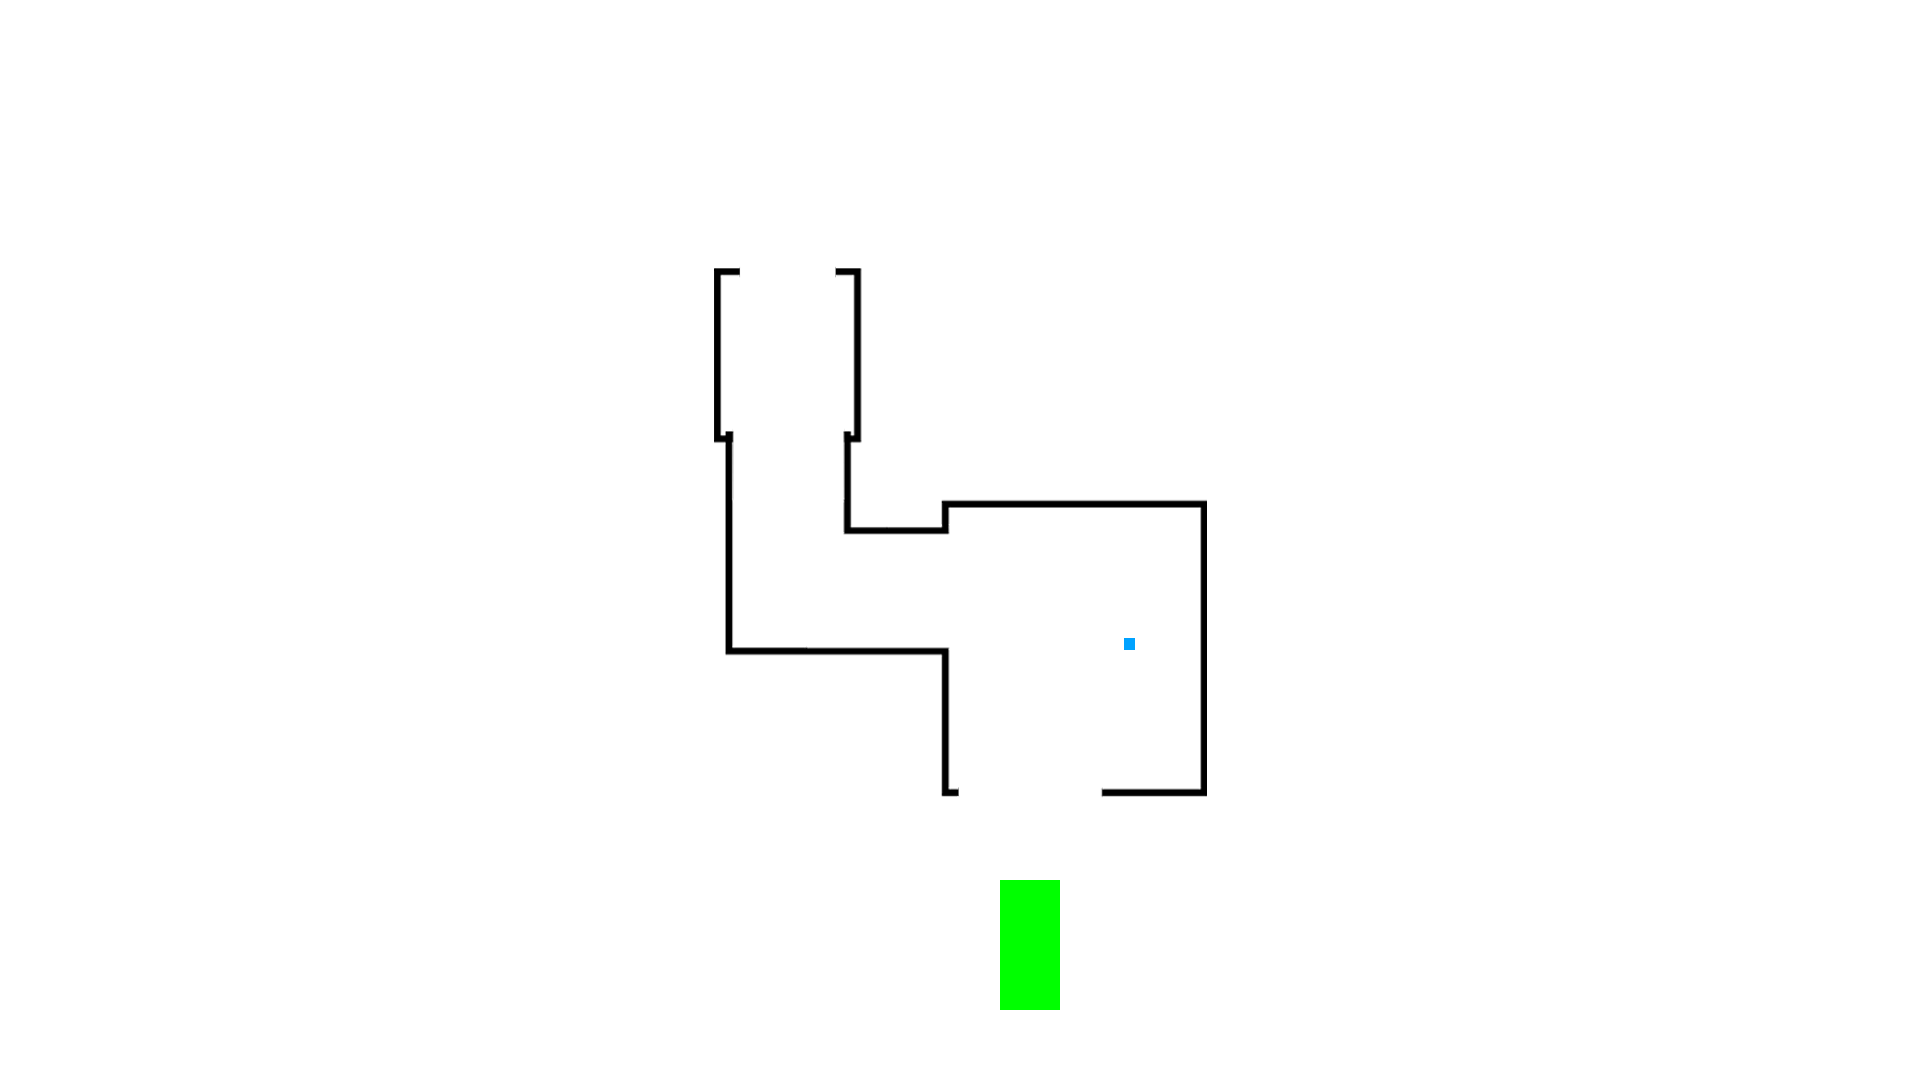
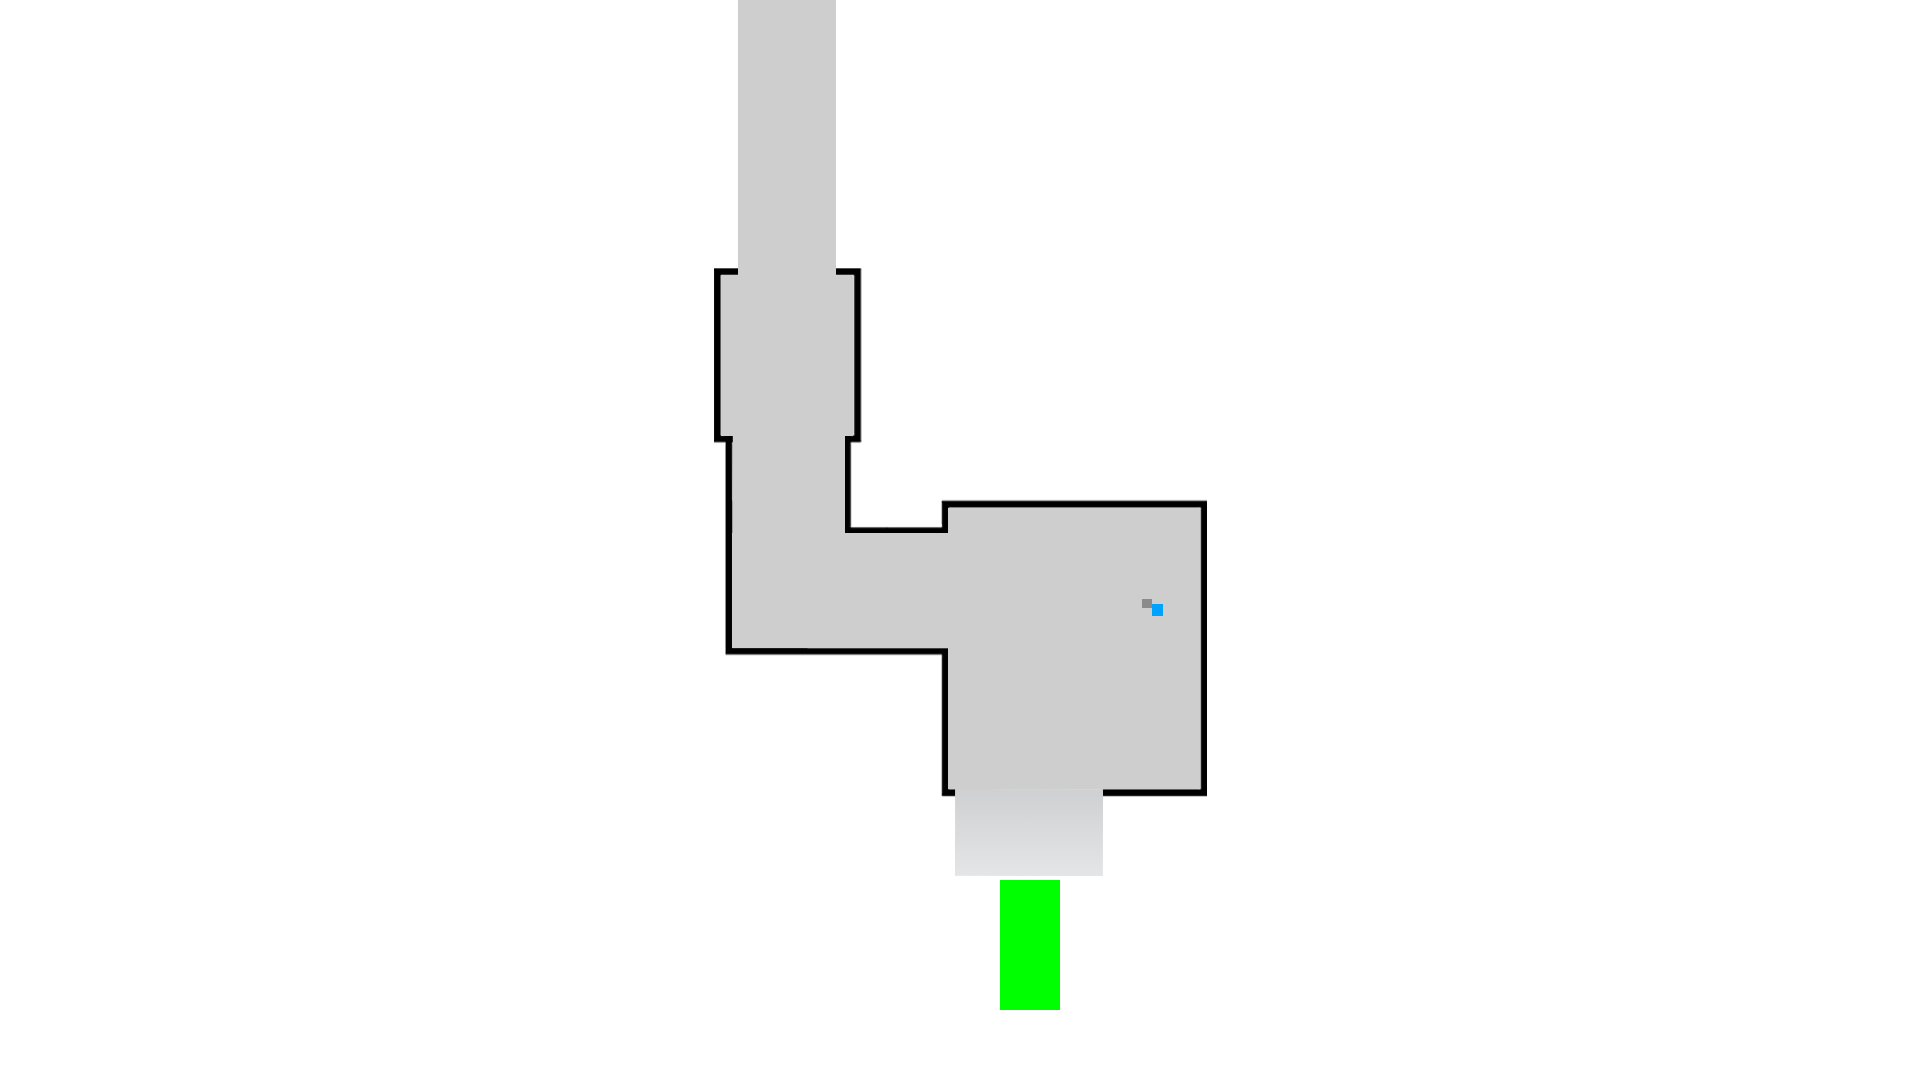
ca

Changed region(s): [[0.375, 0.0, 0.625, 0.825]]

diff --git a/Python_Sim_Pygame/World/Trafo.py b/Python_Sim_Pygame/World/Trafo.py
@@ -1,5 +1,6 @@
 import pygame
 import math
+import os
 
 
 class Trafo:
@@ -7,7 +8,7 @@ class Trafo:
     inside the player's hitbox. Stores a carrier reference when picked.
     Coordinates are in world units (same as player)."""
 
-    def __init__(self, x, y, size=60, color=(150, 80, 10)):
+    def __init__(self, x, y, size=60, color=(150, 80, 10), image_path=None, image_scale=2):
         self.x = x
         self.y = y
         self.size = size
@@ -19,6 +20,37 @@ class Trafo:
         # A small positive value (e.g. 0.2) makes the hitbox smaller than the
         # drawn square so collisions feel tighter and match the sprite.
         self.collision_shrink = 0.2
+        
+        # image_scale: multiplicador para o tamanho da imagem (1.0 = tamanho original, 1.5 = 50% maior, etc)
+        self.image_scale = image_scale
+        
+        # Load image if provided
+        self.image = None
+        self.image_scaled = None
+        if image_path:
+            self._load_image(image_path)
+    
+    def _load_image(self, image_path):
+        """Load and scale the PNG image for the trafo."""
+        try:
+            # If relative path, make it relative to the World folder
+            if not os.path.isabs(image_path):
+                current_dir = os.path.dirname(os.path.abspath(__file__))
+                image_path = os.path.join(current_dir, image_path)
+            
+            if os.path.exists(image_path):
+                self.image = pygame.image.load(image_path).convert_alpha()
+                self._scale_image()
+            else:
+                print(f"Warning: Image file not found: {image_path}")
+        except Exception as e:
+            print(f"Error loading image: {e}")
+
+    def _scale_image(self):
+        """Scale the image to match the size attribute multiplied by image_scale."""
+        if self.image:
+            scaled_size = int(self.size * self.image_scale)
+            self.image_scaled = pygame.transform.scale(self.image, (scaled_size, scaled_size))
 
     def get_rect(self):
         half = self.size / 2
@@ -59,7 +91,7 @@ class Trafo:
                     pass
 
     def draw(self, surface, camera_or_offset=(0, 0)):
-        # draw square in world coordinates; camera_or_offset may be Camera or (x,y)
+        # draw image or square in world coordinates; camera_or_offset may be Camera or (x,y)
         if hasattr(camera_or_offset, 'world_to_screen'):
             sx, sy = camera_or_offset.world_to_screen((self.x, self.y))
         else:
@@ -67,9 +99,16 @@ class Trafo:
             sx, sy = (self.x - camx, self.y - camy)
 
         half = max(1, int(round(self.size / 2)))
-        rect = pygame.Rect(int(sx - half), int(sy - half), half * 2, half * 2)
-        pygame.draw.rect(surface, self.color, rect)
-        pygame.draw.rect(surface, (0,0,0), rect, 1)
+        
+        if self.image_scaled:
+            # Draw the scaled image centered at the position
+            rect = self.image_scaled.get_rect(center=(int(sx), int(sy)))
+            surface.blit(self.image_scaled, rect)
+        else:
+            # Fallback to drawing a square if no image is loaded
+            rect = pygame.Rect(int(sx - half), int(sy - half), half * 2, half * 2)
+            pygame.draw.rect(surface, self.color, rect)
+            pygame.draw.rect(surface, (0,0,0), rect, 1)
 
     def pick(self, player):
         self.picked = True

diff --git a/Python_Sim_Pygame/v1.0_pygame.py b/Python_Sim_Pygame/v1.0_pygame.py
@@ -392,19 +392,11 @@ def build_collision_grid(img):
         row = grid[y]
         for x in range(w):
             r, g, b, *rest = img.get_at((x, y))
-            # treat strong green as spawn/empty, white as empty, blue marker as empty;
-            # everything else is collision
-            # ignore green spawn area
-            if g >= 200 and r < 100 and b < 100:
-                continue
-            # ignore white background
-            if (r, g, b) == (255, 255, 255):
-                continue
-            # ignore blue marker (B significantly larger than R/G and reasonably bright)
-            if b > max(r, g) + 30 and b > 80:
-                continue
-            row[x] = 1
-            occupied += 1
+            # Only treat BLACK as collision/death
+            # Everything else (green spawn, white, gray path, blue marker) is safe
+            if r < 50 and g < 50 and b < 50:  # Black pixels cause death
+                row[x] = 1
+                occupied += 1
     return grid, occupied
 
 
@@ -475,15 +467,15 @@ last_printed_control_mode = control_mode
 blue_found = find_blue_center(map_image)
 if blue_found:
     bx, by = blue_found
-    trafo = Trafo(bx, by, size=60)
+    trafo = Trafo(bx, by, size=60, image_path='trafo_image/trafo.png')
     # remember initial trafo spawn so we can reset it on player death
     trafo.initial_pos = (bx, by)
 else:
     try:
-        trafo = Trafo(SPAWN_POINT[0] + 120, SPAWN_POINT[1], size=60)
+        trafo = Trafo(SPAWN_POINT[0] + 120, SPAWN_POINT[1], size=60, image_path='trafo_image/trafo.png')
         trafo.initial_pos = (SPAWN_POINT[0] + 120, SPAWN_POINT[1])
     except Exception:
-        trafo = Trafo(SPAWN_POINT[0] + 120 if isinstance(SPAWN_POINT, tuple) else 300, SPAWN_POINT[1] if isinstance(SPAWN_POINT, tuple) else 200, size=60)
+        trafo = Trafo(SPAWN_POINT[0] + 120 if isinstance(SPAWN_POINT, tuple) else 300, SPAWN_POINT[1] if isinstance(SPAWN_POINT, tuple) else 200, size=60, image_path='trafo_image/trafo.png')
         try:
             trafo.initial_pos = (SPAWN_POINT[0] + 120 if isinstance(SPAWN_POINT, tuple) else 300, SPAWN_POINT[1] if isinstance(SPAWN_POINT, tuple) else 200)
         except Exception:
